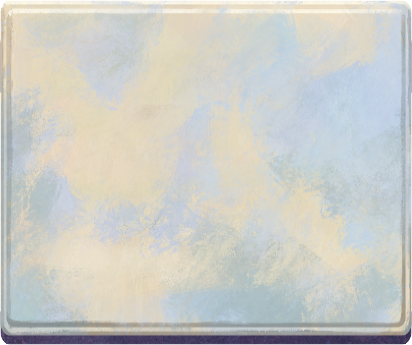
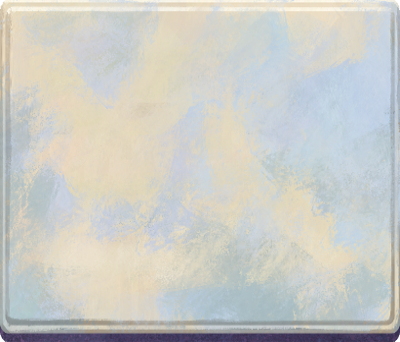
TV FixeTV Plan Fixes

diff --git a/styles/tv.css b/styles/tv.css
@@ -89,12 +89,13 @@
 }
 .plan__contract{
   margin:18px 0 20px;padding:12px 14px;
-  border:var(--stroke) solid #FD6A1A;border-radius:var(--r);
+  border:0;border-radius:0;
+  background:url(../art/ui-new/panel-big.png) center / 100% 100% no-repeat;
+  color:#2B2238;
 }
-.plan__contract__h{margin:0 0 7px;font-size:9px;letter-spacing:.24em;color:#778495;}
-.plan__contract b{display:block;font-size:11px;letter-spacing:.12em;line-height:1.35;margin-bottom:3px;color:var(--on-color);}
-.plan__contract span{display:block;font-size:9.5px;letter-spacing:.14em;color:var(--zinc-lt);margin-bottom:8px;}
-.plan__contract em{display:block;font-style:normal;font-size:12.5px;line-height:1.55;color:var(--on-color);opacity:.88;}
+.plan__contract b{display:block;font-size:11px;letter-spacing:.12em;line-height:1.35;margin-bottom:3px;color:#A33E0A;}
+.plan__contract span{display:block;font-size:9.5px;letter-spacing:.14em;color:inherit;margin-bottom:8px;}
+.plan__contract em{display:block;font-style:normal;font-size:12.5px;line-height:1.55;color:inherit;opacity:.88;}
 .plan__ready{display:flex;flex-direction:column;align-items:flex-start;gap:8px;}
 .readylamp{
   display:flex;align-items:center;gap:7px;

diff --git a/js/p1.js b/js/p1.js
@@ -386,7 +386,7 @@
         }),
         /* where the disguise is required, walking away is only "later" */
         el('button', { class: 'btn disguise__confirm',
-          text: C.MODULES.some(function (m) { return m.id === 'deguisement' && m.optional; }) ? 'GO AS YOU ARE' : 'NOT YET',
+          text: C.MODULES.some(function (m) { return m.id === 'deguisement' && m.optional; }) ? 'GO AS YOU ARE' : 'GO UNDISGUISED',
           onclick: function () { E.declineModule(); U.emit('render'); } })
       ]);
     /* Assane knows whose uniform he is after; Benjamin knows what it looks like. */

diff --git a/js/content.js b/js/content.js
@@ -171,7 +171,7 @@
     contract: 'CONTRACT No.1 — NIGHT BEFORE AUCTION',
     target: 'Lot 12 · illuminated manuscript',
     venueArt: 'venue-establishing',
-    blurb: 'You need a paper inside The vault. Its room is released from the officer security desk. Find a way out.',
+    blurb: 'You need a paper inside the vault. Its room is released from the officer security desk. Find a way out.',
 
     /* THE FRAME. A wall column down the EAST edge and a wall row along the
        bottom that no route touches: the hatch sits in the east wall, so the

diff --git a/index.html b/index.html
@@ -36,7 +36,6 @@
                 <h1 class="plan__title">DEUX COMPLICES</h1>
                 <p class="plan__target" id="plan-target"></p>
                 <div class="plan__contract" id="plan-contract">
-                  <p class="plan__contract__h">TONIGHT’S CONTRACT</p>
                   <b id="plan-contract-name"></b>
                   <span id="plan-contract-venue"></span>
                   <em id="plan-contract-blurb"></em>
